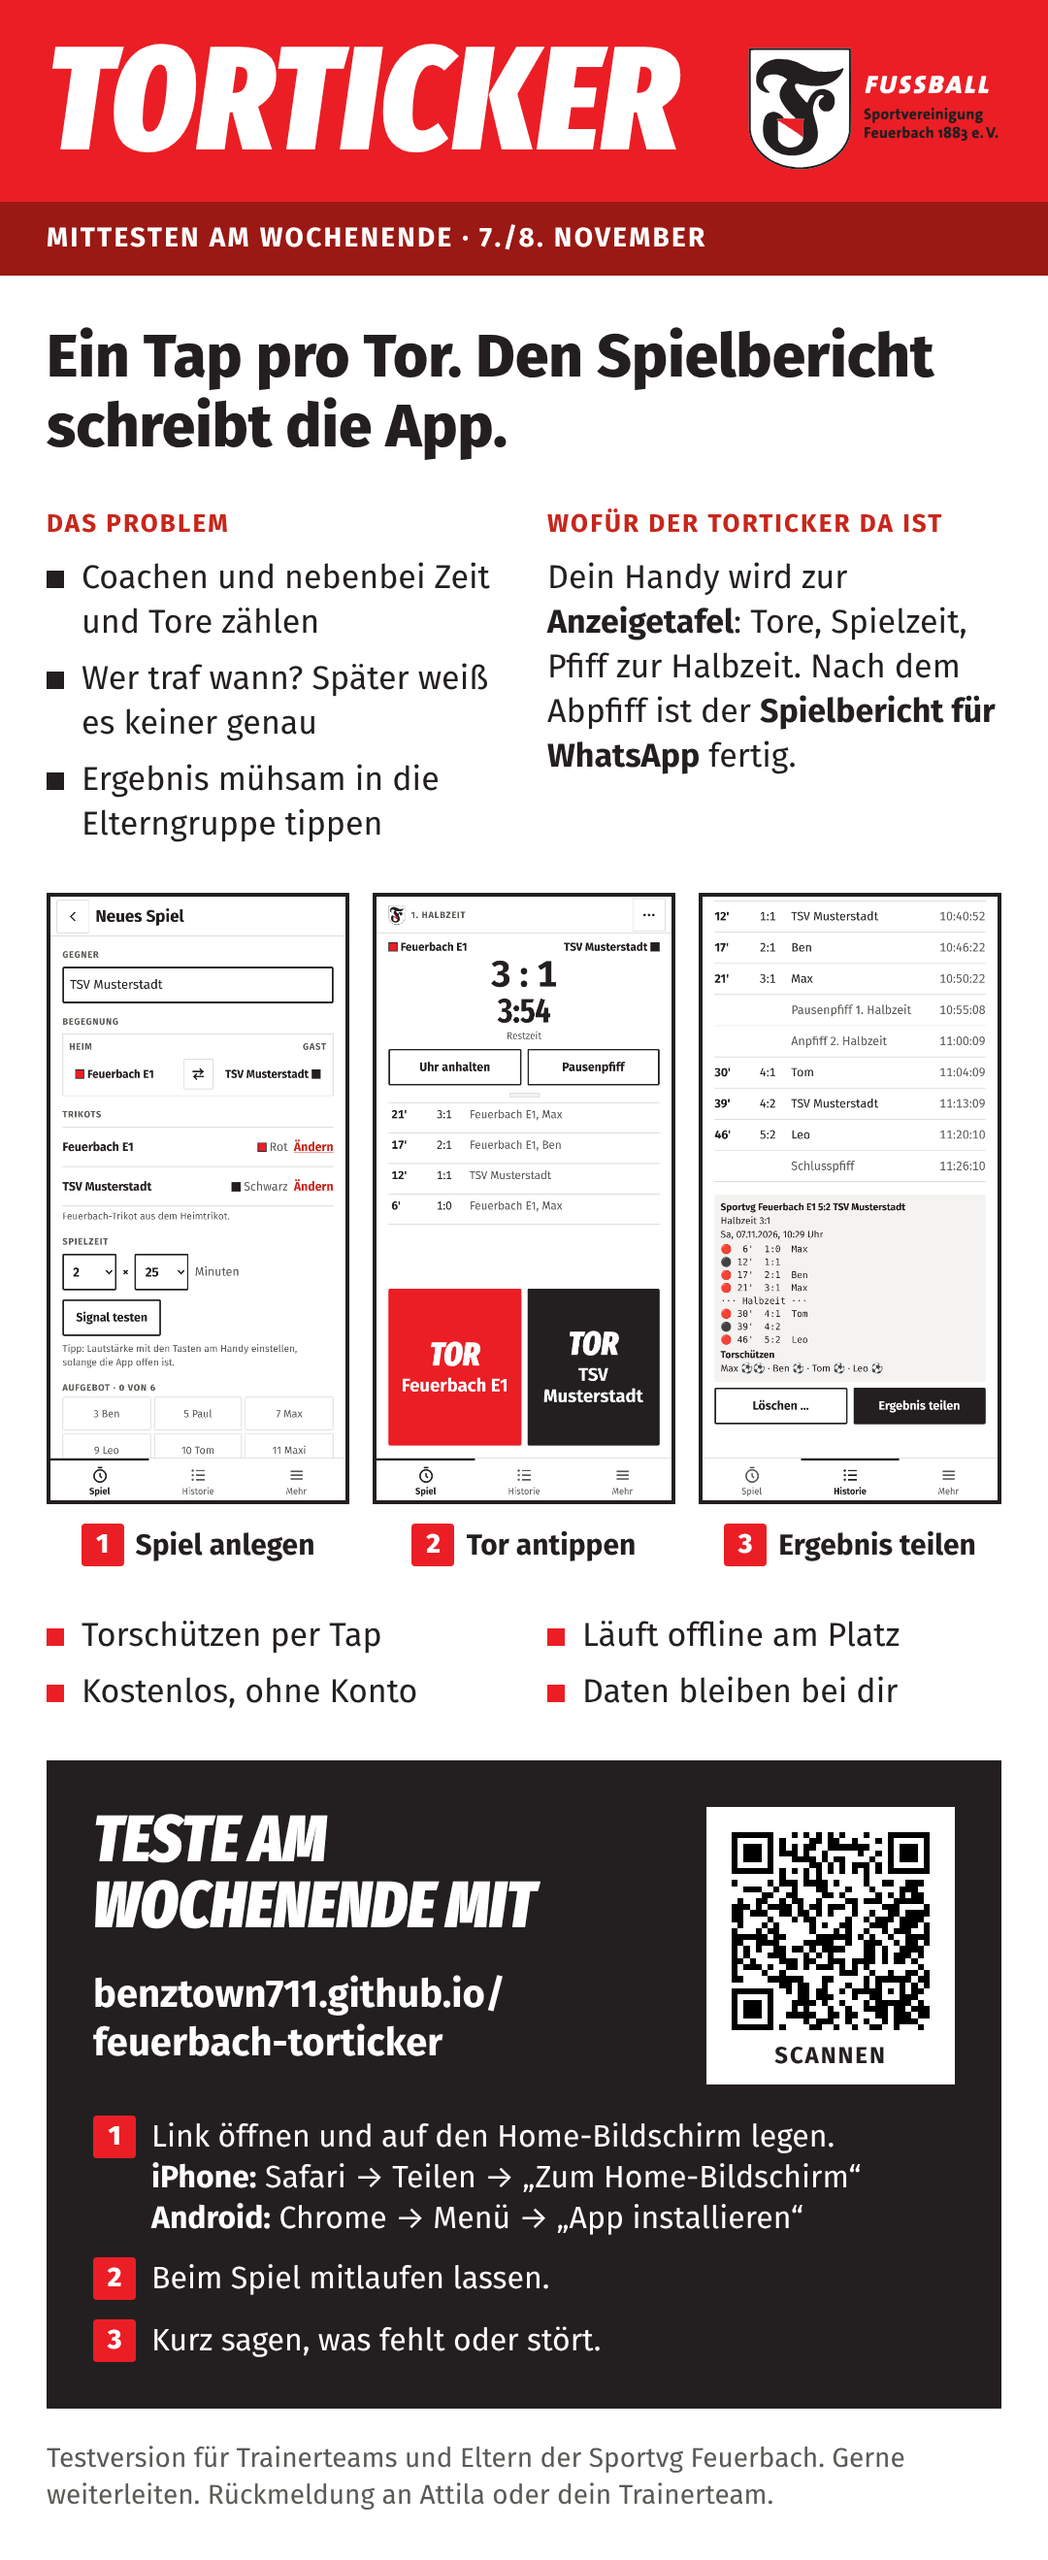
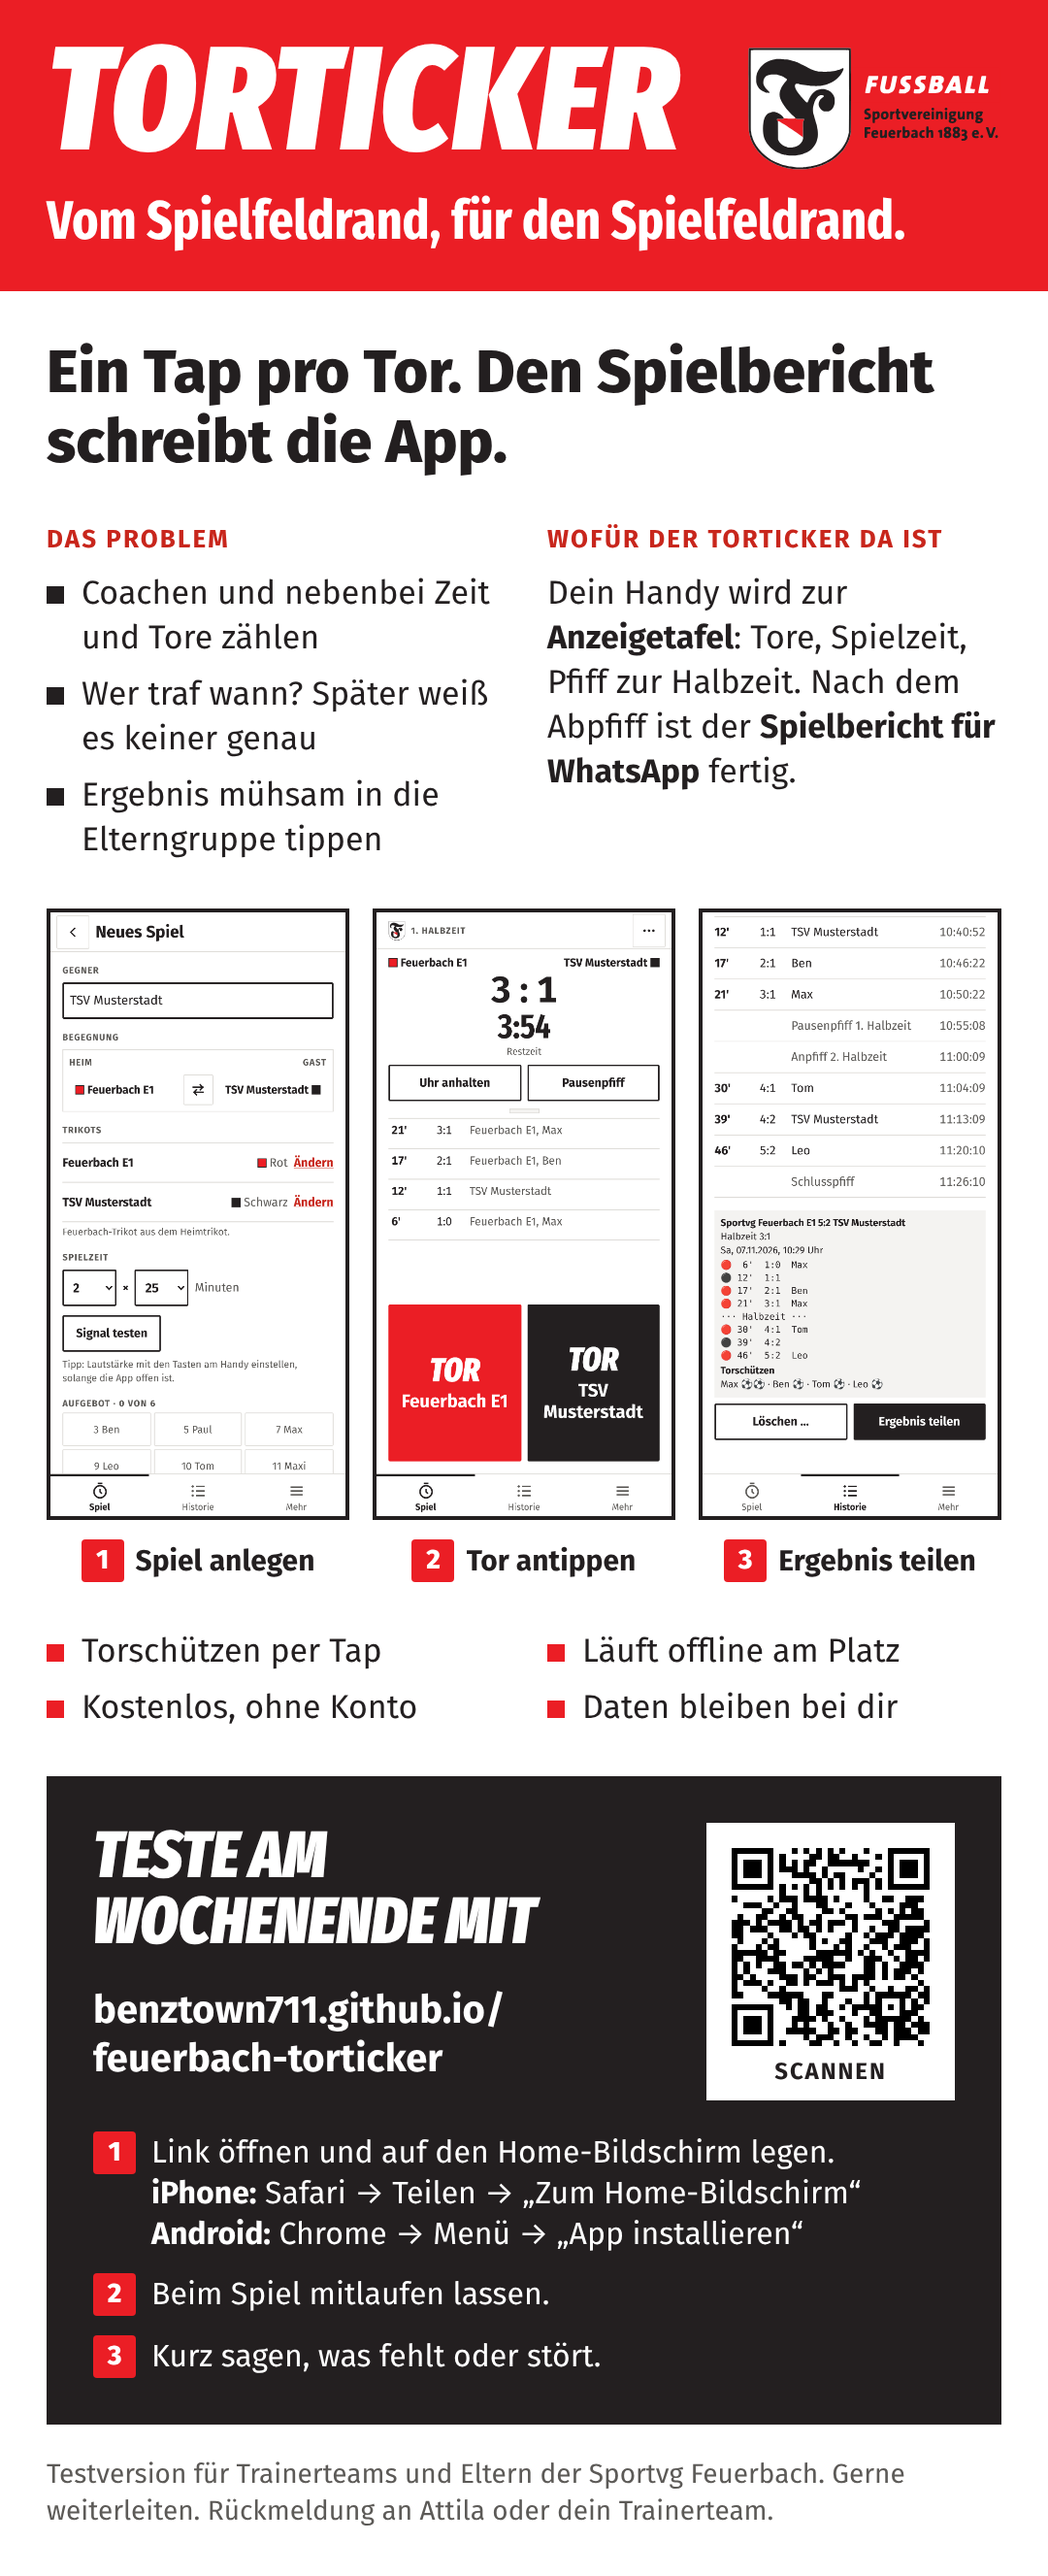
docs(flyer): Slogan „Vom Spielfeldrand, für den Spielfeldrand.“ statt Hinweisband
Das dunkelrote Band mit dem Testtermin war doppelt (steht im Aufruf) und
verstieß gegen das Vereinsdesign (Dunkelrot nur zusammen mit Rot in der
Welle). Der Slogan steht jetzt weiß im roten Kopf, 28px fett.

Claude-Session: https://claude.ai/code/session_01JK6NfhJe97HWrLb7XHaSJD

diff --git a/docs/flyer/flyer.html b/docs/flyer/flyer.html
@@ -34,11 +34,23 @@
       .kopf {
         background: var(--color-vereinsrot);
         color: var(--color-on-rot);
-        padding: var(--space-4) var(--space-6);
+        padding: var(--space-4) var(--space-6) 20px;
+      }
+
+      .kopf__zeile {
         display: flex;
         align-items: flex-end;
         justify-content: space-between;
         gap: var(--space-4);
+      }
+
+      /* Weiß auf Vereinsrot nur ab 24px fett (design/README.md) */
+      .kopf__slogan {
+        margin-top: 10px;
+        font-family: var(--font-display);
+        font-weight: 700;
+        font-size: 28px;
+        line-height: 32px;
       }
 
       .kopf__titel {
@@ -53,17 +65,6 @@
       .kopf__lockup {
         height: 64px;
         display: block;
-      }
-
-      .band {
-        background: var(--color-rot-dunkel);
-        color: var(--color-on-rot);
-        padding: 10px var(--space-6);
-        font-size: 14px;
-        line-height: 18px;
-        font-weight: 700;
-        letter-spacing: 0.08em;
-        text-transform: uppercase;
       }
 
       .inhalt {
@@ -283,14 +284,16 @@
   <body>
     <main class="flyer" id="flyer">
       <header class="kopf">
-        <h1 class="kopf__titel">TORTICKER</h1>
-        <img
-          class="kopf__lockup"
-          src="../../design/brand/lockup-fussball.svg"
-          alt="Fußball, Sportvereinigung Feuerbach 1883 e. V."
-        />
+        <div class="kopf__zeile">
+          <h1 class="kopf__titel">TORTICKER</h1>
+          <img
+            class="kopf__lockup"
+            src="../../design/brand/lockup-fussball.svg"
+            alt="Fußball, Sportvereinigung Feuerbach 1883 e. V."
+          />
+        </div>
+        <p class="kopf__slogan">Vom Spielfeldrand, für den Spielfeldrand.</p>
       </header>
-      <p class="band">Mittesten am Wochenende · 7./8. November</p>
 
       <section class="inhalt">
         <h2 class="titel">Ein Tap pro Tor. Den Spielbericht schreibt die App.</h2>
